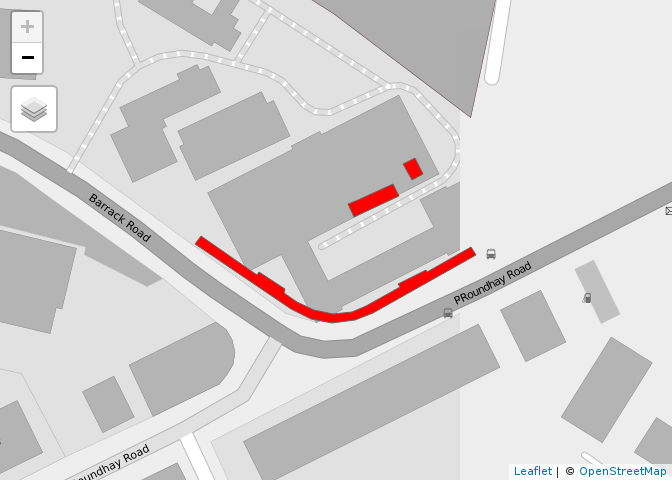
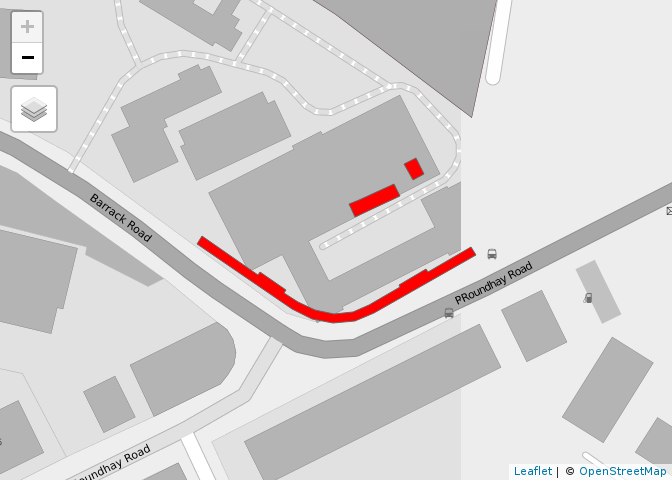
Update solars polygon - only a few cm difference

diff --git a/README.md b/README.md
@@ -16,4 +16,4 @@ This was georectified and digitised in QGIS, resulting in the following data:
 The total maximum area available, for the terrace, common house and the entire shed roof area, respectively, was calculated as follows:
 
     #> Units: [m^2]
-    #> [1] 388.62259  87.03578  30.65030
+    #> [1] 389.82171  87.03578  30.65030
